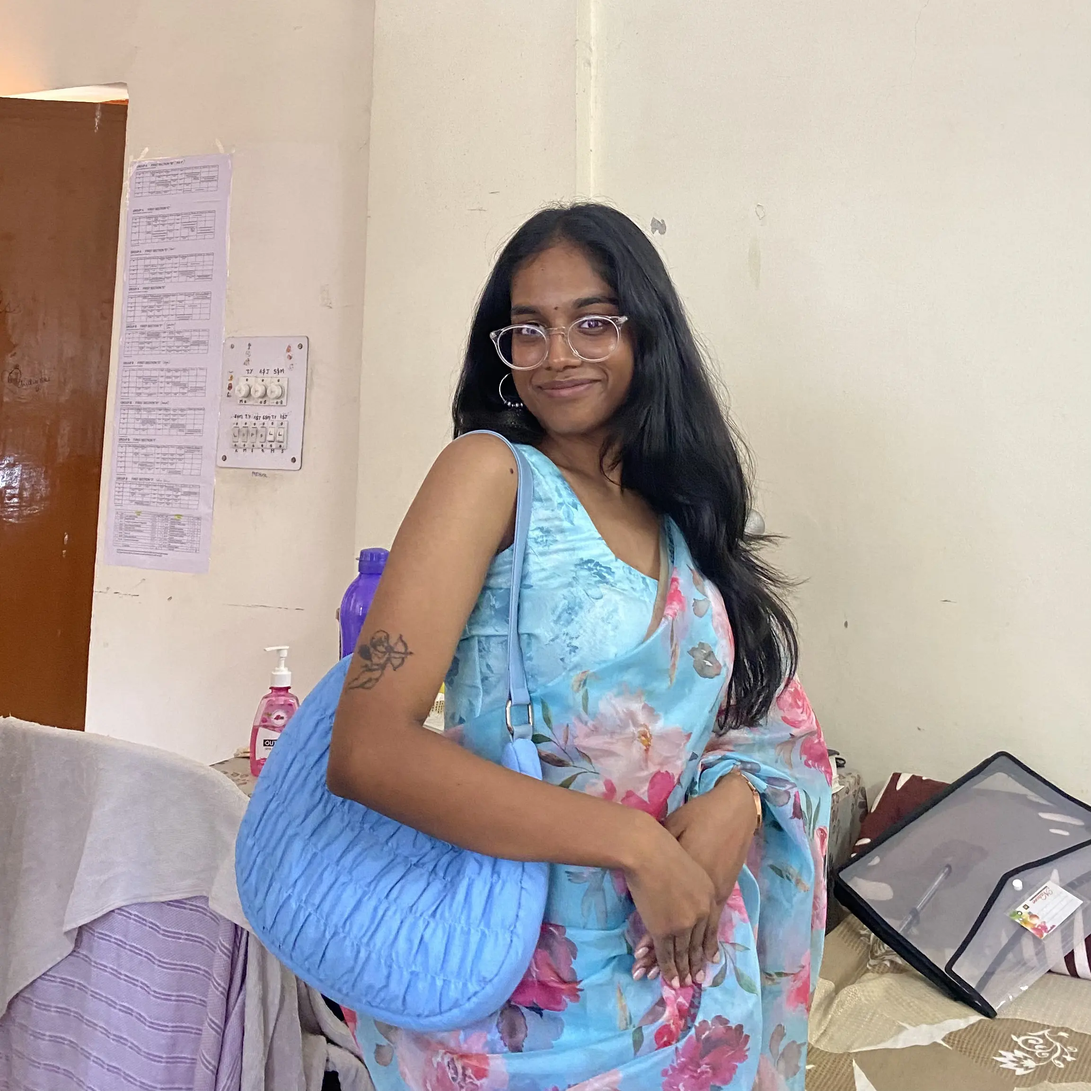
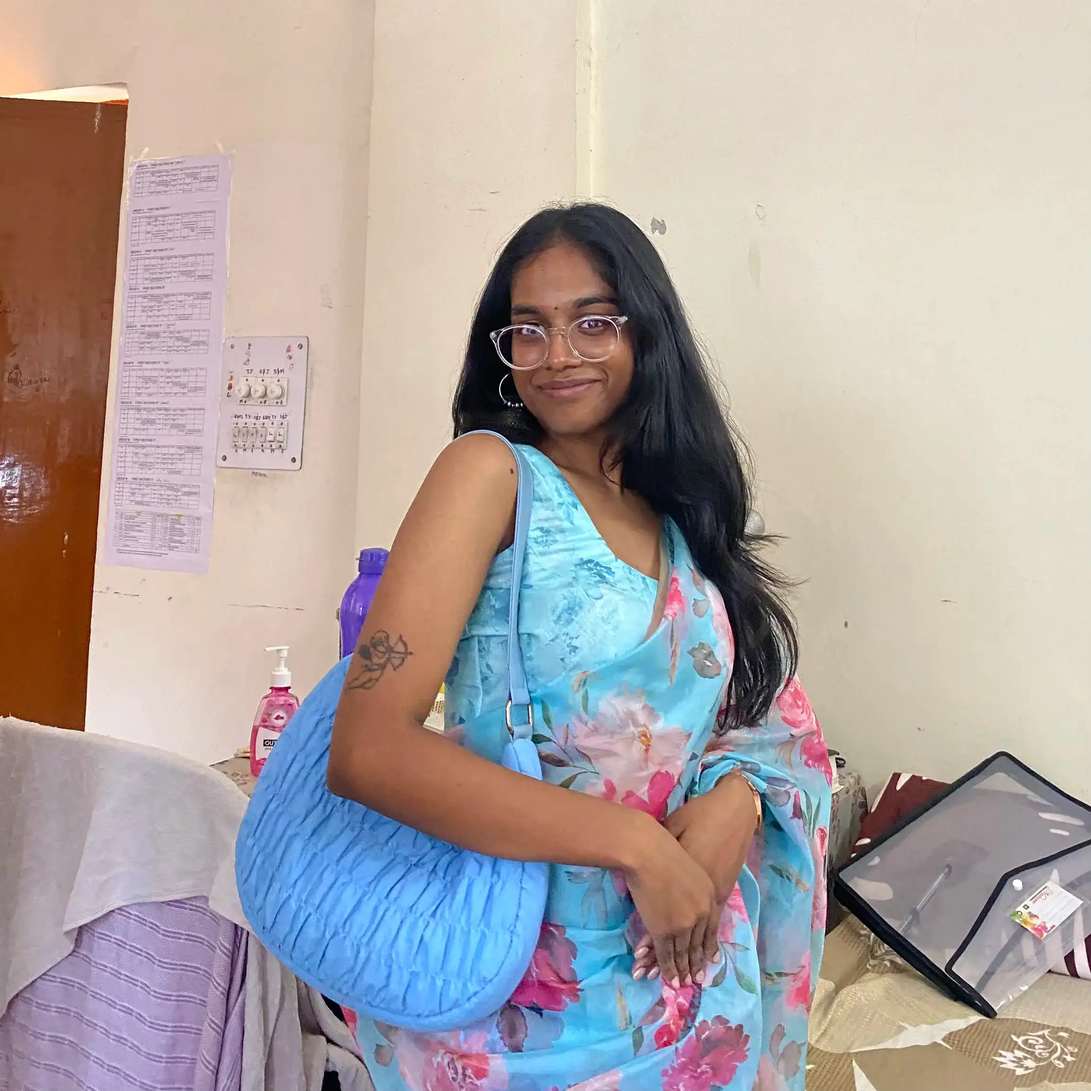
Compressed Images and changes to webp

diff --git a/src/components/Organizers/Organizers.jsx b/src/components/Organizers/Organizers.jsx
@@ -12,12 +12,12 @@ export default function Organizers() {
   // Sorted alphabetically by name (case-insensitive)
   const sliderAImages = [
     "organizer3.webp","organizer4.webp","organizer6.webp",
-    "organizer5.webp","organizer7.webp","organizer8.jpg",
+    "organizer5.webp","organizer7.webp","organizer8.webp",
     "organizer9.webp","organizer10.webp","organizer11.webp",
-    "organizer12.webp","organizer13.jpeg","organizer14.jpg",
-    "organizer2.webp","organizer15.webp","organizer16.jpg",
+    "organizer12.webp","organizer13.webp","organizer14.webp",
+    "organizer2.webp","organizer15.webp","organizer16.webp",
     "organizer17.webp","organizer18.webp","organizer19.webp",
-    "organizer21.webp","organizer23.webp","organizer24.jpg",
+    "organizer21.webp","organizer23.webp","organizer24.webp",
   ];
 
   const sliderANames = [
@@ -58,26 +58,26 @@ export default function Organizers() {
     { name: "Arpit Tyagi", image: "organizer27.webp" },
     { name: "Arya Thakur", image: "organizer28.webp" },
     { name: "Avaneesh", image: "organizer29.webp" },
-    { name: "Gauri Sharma", image: "organizer30.jpg" },
+    { name: "Gauri Sharma", image: "organizer30.webp" },
     { name: "Harsh Verma", image: "organizer31.webp" },
-    { name: "Kaustav Rana", image: "organizer32.jpg" },
+    { name: "Kaustav Rana", image: "organizer32.webp" },
     { name: "Manan Gupta", image: "organizer38.webp" },
     { name: "Mayank Koundal", image: "organizer33.webp" },
     { name: "Medha Sharma", image: "organizer34.webp" },
     { name: "Nishita", image: "organizer35.webp" },
     { name: "Peeyush Gautam", image: "organizer39.webp" },
-    { name: "Prakul Chandra", image: "organizer40.png" },
+    { name: "Prakul Chandra", image: "organizer40.webp" },
     { name: "Pratham Lodha", image: "organizer41.webp" },
     { name: "Rijul Rangta", image: "organizer42.webp" },
-    { name: "Ronak Dotasara", image: "organizer43.jpg" },
+    { name: "Ronak Dotasara", image: "organizer43.webp" },
     { name: "Shreya Dhawan", image: "organizer44.webp" },
-    { name: "Vaishali Bhatt", image: "organizer45.jpg" },
-    { name: "Vaishnavi Sharma", image: "organizer46.jpg" },
-    { name: "Vanni Chauhan", image: "organizer47.jpg" },
-    { name: "Vanya Sharma", image: "organizer48.jpg" },
-    { name: "Vidhi", image: "organizer49.jpeg" },
-    { name: "Vyom Pant", image: "organizer50.jpg" },
-    { name: "Yash Verma", image: "organizer51.jpg" }
+    { name: "Vaishali Bhatt", image: "organizer45.webp" },
+    { name: "Vaishnavi Sharma", image: "organizer46.webp" },
+    { name: "Vanni Chauhan", image: "organizer47.webp" },
+    { name: "Vanya Sharma", image: "organizer48.webp" },
+    { name: "Vidhi", image: "organizer49.webp" },
+    { name: "Vyom Pant", image: "organizer50.webp" },
+    { name: "Yash Verma", image: "organizer51.webp" }
   ];
   const sliderB = sliderBData.map(d => ({
     name: d.name,

diff --git a/src/components/Organizers/Organizers.module.css b/src/components/Organizers/Organizers.module.css
@@ -87,7 +87,7 @@
   width: 100%;
   min-height: 100vh;
   padding: 10vh 0;
-  background-image: url("/assets/images/organizers/organizers-bg.png");
+  background-image: url("/assets/images/organizers/organizers-bg.webp");
   background-size: cover;
   background-position: top center;
   background-repeat: no-repeat;
